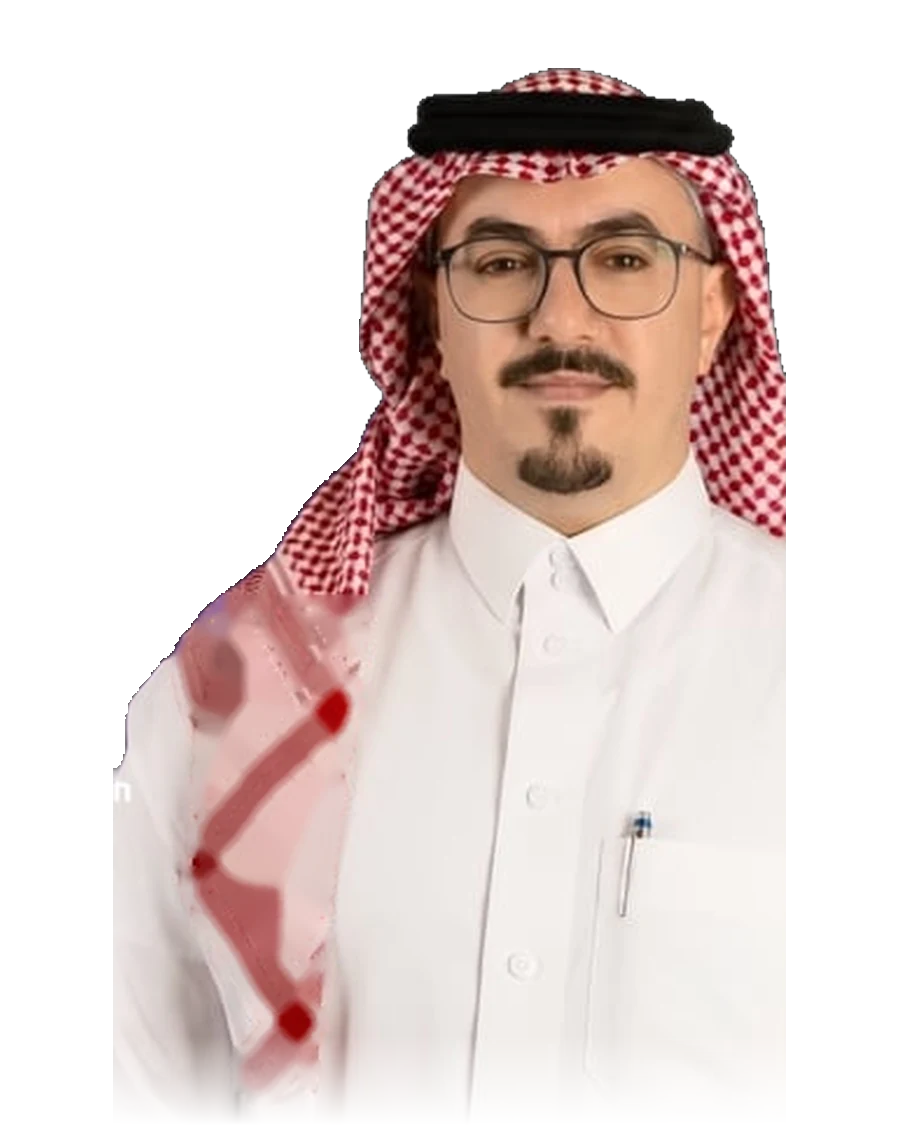
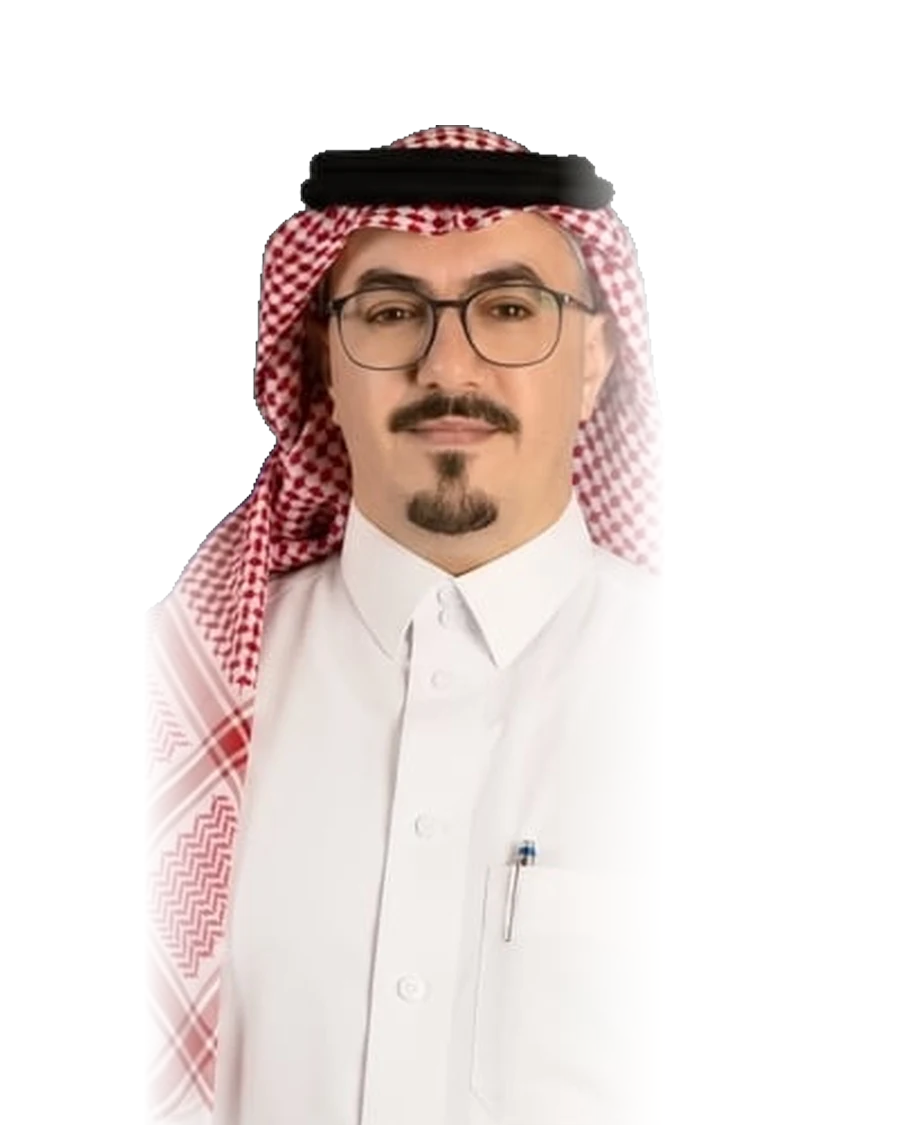
Website: clinic team page, uniform portraits, «حجز موعد», shorter texts (#93)
* Fetch the clinic's current team photos for review

Claude-Session: https://claude.ai/code/session_01UZ9yB1qiuDqaMH3Wauanzm

* Run fetch on push

* Fetch: commit the photos to the branch

* Team photos (source)

* Doctor portraits: one head-and-shoulders crop for all; team as on the clinic's team page

Claude-Session: https://claude.ai/code/session_01UZ9yB1qiuDqaMH3Wauanzm

* Website: team as on the clinic's team page (no founder spotlight), short department texts, «حجز موعد», cities only where they help

Claude-Session: https://claude.ai/code/session_01UZ9yB1qiuDqaMH3Wauanzm

* Portraits workflow: one clean OpenCV install

Claude-Session: https://claude.ai/code/session_01UZ9yB1qiuDqaMH3Wauanzm

* Portraits workflow: OpenCV 4 (has the face detector)

Claude-Session: https://claude.ai/code/session_01UZ9yB1qiuDqaMH3Wauanzm

* Doctor portraits (background removed)

* Portraits: shoulders always reach the bottom of the frame; soft edges where the card cut

Claude-Session: https://claude.ai/code/session_01UZ9yB1qiuDqaMH3Wauanzm

* Doctor portraits (background removed)

* Portraits: Dr. Hassan Abusalih's shemagh kept intact (cropped past the card text, not cleaned)

Claude-Session: https://claude.ai/code/session_01UZ9yB1qiuDqaMH3Wauanzm

* Doctor portraits (background removed)

* Regenerate migrations, setup.sql, reset.sql and docs

---------

diff --git a/src/db/site-derma.ts b/src/db/site-derma.ts
@@ -75,13 +75,6 @@ export const DERMA_DOCTORS: Doc[] = [
     "استشاري الأمراض الجلدية والطب التجميلي، ومؤسس ورئيس مجلس إدارة عيادات ديرما",
     "Consultant in Dermatology and Aesthetic Medicine; Founder and Chairman of Derma Clinics",
     "skin",
-    {
-      founder: true,
-      bioAr:
-        "أسّس د. عبدالله العيسى العيادة عام ١٩٩٦، وأسهم في إدخال البوتوكس والفيلر وطب الليزر إلى المملكة العربية السعودية.",
-      bioEn:
-        "Dr. Abdullah Aleisa founded the practice in 1996 and helped bring Botox, fillers and laser medicine to Saudi Arabia.",
-    },
   ),
   doc(
     `${P}abc77bf3-09f5-49fb-a9db-d7ded0850a5c-src_ar..jpg?v=0`,
@@ -172,14 +165,6 @@ export const DERMA_DOCTORS: Doc[] = [
     "skin",
   ),
   doc(
-    `${Q}ce1d1303-7a5d-44b9-8675-fb0c319cc022-src_ar..jpg?v=0`,
-    "د. باسل خوري",
-    "Dr. Basl Khwree",
-    DERM_AES.ar,
-    DERM_AES.en,
-    "skin",
-  ),
-  doc(
     `${Q}28dffe43-0457-447e-9ef0-ec5f88c5ebfe-src_ar..jpg?v=0`,
     "د. أنس غزال",
     "Dr. Anas Ghazal",
@@ -198,14 +183,6 @@ export const DERMA_DOCTORS: Doc[] = [
     JEDDAH,
   ),
   doc(
-    `${Q}e87b2355-c5d5-4e09-ba2b-d3fb0af45ea3-src_ar..jpg`,
-    "د. بسام جباعي",
-    "Dr. Bassam Jibaii",
-    "زراعة الشعر",
-    "Hair Transplant",
-    "hair",
-  ),
-  doc(
     "3a226e17-3a8c-59e7-5957-8066f3d292568e64403f-f37e-4a45-884b-964fe021a739-src_ar..jpg?v=0",
     "د. باسل غويش",
     "Dr. Bassel Gwaish",
@@ -222,65 +199,9 @@ export const DERMA_DOCTORS: Doc[] = [
     "skin",
   ),
   doc(
-    `${R}6cf11e29-6e08-49ac-bf49-e4c379c30fb7-src_ar..jpg?v=0`,
-    "د. نجد العيسى",
-    "Dr. Najd Aleisa",
-    "طب أسنان أسرة",
-    "Family Dentistry",
-    "dental",
-  ),
-  doc(
-    `${R}25b28198-b73a-4435-98b9-436861dbf4a2-src_ar..jpg?v=0`,
-    "د. فيصل الشريف",
-    "Dr. Faisal Alsharif",
-    "جراحة الوجه و الفكين وزراعة الأسنان",
-    "Oral Maxillofacial Surgery & Dental Implant",
-    "dental",
-  ),
-  doc(
-    `${R}5549794f-2549-4e4b-8c98-20993d9ce8cf-src_ar..jpg?v=0`,
-    "د. دلال الماضي",
-    "Dr. Dalal Almadha",
-    "تقويم الأسنان و الوجه والفكين",
-    "Orthodontics",
-    "dental",
-  ),
-  doc(
-    `${R}619f625e-7bc3-4e0e-bd2d-ada337f02050-src_ar..jpg?v=0`,
-    "د. صالح العساف",
-    "Dr. Saleh Alassaf",
-    "طب وجراحة اللثة وزراعة الأسنان",
-    "Periodontics",
-    "dental",
-  ),
-  doc(
-    `${R}c08fc530-b888-4247-a1be-9557232439fb-src_ar..jpg?v=0`,
-    "د. معالي العبدلي",
-    "Dr. Maali Alabdali",
-    "طب أسنان أسرة",
-    "Family Dentistry",
-    "dental",
-  ),
-  doc(
-    `${R}3c259c08-5f77-4ba9-bf0d-2bfe1c831d56-src_ar..jpg?v=0`,
-    "د. سجى العبيدي",
-    "Dr. Saja Alobaidi",
-    "طب وجراحة الفم والأسنان",
-    "Dentistry and Oral Surgery",
-    "dental",
-  ),
-  doc(
-    "3a226e19-97ef-6817-c4df-91d10c9be369369d8c45-f7d0-42ec-a7be-3e4978420bfe-src_ar..jpg?v=0",
-    "د. علي المجلي",
-    "Dr. Ali AlMujali",
-    "جراحة تجميل الوجه والفكين",
-    "Maxillofacial Surgery",
-    "plastic",
-  ),
-  doc(
-    `${R}bc4edbe2-f168-4f43-bd75-5369239e21c5-src_ar..jpg?v=0`,
-    "د. بسام العويرضي",
-    "Dr. Bassam AlAwirdhi",
+    "3a226e19-97ef-6817-c4df-91d10c9be369394998f9-9545-45b7-b7d5-15810ce6b05e-src_ar..jpg?v=0",
+    "د. حسن أبو صالح",
+    "Dr. Hassan Abusalih",
     "استشاري جراحة التجميل والترميم",
     "Consultant in Plastic and Reconstructive Surgery",
     "plastic",
@@ -294,12 +215,52 @@ export const DERMA_DOCTORS: Doc[] = [
     "plastic",
   ),
   doc(
-    "3a226e19-97ef-6817-c4df-91d10c9be369394998f9-9545-45b7-b7d5-15810ce6b05e-src_ar..jpg?v=0",
-    "د. حسن أبو صالح",
-    "Dr. Hassan Abusalih",
-    "استشاري جراحة التجميل والترميم",
-    "Consultant in Plastic and Reconstructive Surgery",
+    "3a226e19-97ef-6817-c4df-91d10c9be369369d8c45-f7d0-42ec-a7be-3e4978420bfe-src_ar..jpg?v=0",
+    "د. علي المجلي",
+    "Dr. Ali AlMujali",
+    "جراحة تجميل الوجه والفكين",
+    "Maxillofacial Surgery",
     "plastic",
+  ),
+  doc(
+    `${R}3c259c08-5f77-4ba9-bf0d-2bfe1c831d56-src_ar..jpg?v=0`,
+    "د. سجى العبيدي",
+    "Dr. Saja Alobaidi",
+    "طب وجراحة الفم والأسنان",
+    "Dentistry and Oral Surgery",
+    "dental",
+  ),
+  doc(
+    `${R}c08fc530-b888-4247-a1be-9557232439fb-src_ar..jpg?v=0`,
+    "د. معالي العبدلي",
+    "Dr. Maali Alabdali",
+    "طب أسنان أسرة",
+    "Family Dentistry",
+    "dental",
+  ),
+  doc(
+    `${R}5549794f-2549-4e4b-8c98-20993d9ce8cf-src_ar..jpg?v=0`,
+    "د. دلال الماضي",
+    "Dr. Dalal Almadha",
+    "تقويم الأسنان و الوجه والفكين",
+    "Orthodontics",
+    "dental",
+  ),
+  doc(
+    `${R}25b28198-b73a-4435-98b9-436861dbf4a2-src_ar..jpg?v=0`,
+    "د. فيصل الشريف",
+    "Dr. Faisal Alsharif",
+    "جراحة الوجه و الفكين وزراعة الأسنان",
+    "Oral Maxillofacial Surgery & Dental Implant",
+    "dental",
+  ),
+  doc(
+    `${R}6cf11e29-6e08-49ac-bf49-e4c379c30fb7-src_ar..jpg?v=0`,
+    "د. نجد العيسى",
+    "Dr. Najd Aleisa",
+    "طب أسنان أسرة",
+    "Family Dentistry",
+    "dental",
   ),
 ];
 
@@ -542,17 +503,17 @@ export const DERMA_SILOS = [
 export const DERMA_SITE = {
   eyebrowAr: "العيادة · منذ ١٩٩٦",
   eyebrowEn: "The Practice · Since 1996",
-  headlineAr: "رعاية جلدية وتجميلية وطب أسنان على أيدي أطباء متخصصين في الرياض وجدة",
-  headlineEn: "Specialist dermatology, aesthetic and dental care in Riyadh and Jeddah",
+  headlineAr: "رعاية جلدية وتجميلية وطب أسنان على أيدي أطباء متخصصين",
+  headlineEn: "Specialist dermatology, aesthetic and dental care",
   taglineAr: "الجلدية وجراحة التجميل واستعادة الشعر وطب الأسنان، تحت سقف واحد منذ عام ١٩٩٦.",
   taglineEn:
     "Dermatology, plastic surgery, hair restoration and dentistry, under one roof since 1996.",
   aboutTitleAr: "عن عيادات ديرما",
   aboutTitleEn: "About Derma Clinics",
   aboutAr:
-    "تأسست عيادات ديرما في الرياض عام ١٩٩٦ على يد د. عبدالله العيسى، استشاري الأمراض الجلدية والطب التجميلي. وتضم اليوم أربعة أقسام في الرياض وجدة: الأمراض الجلدية والطب التجميلي، وزراعة الشعر، وجراحة التجميل، وطب الأسنان. يبدأ كل علاج بكشف لدى طبيب القسم، يشرح فيه التشخيص والخيارات المتاحة وعدد الجلسات والتكلفة قبل أن يتخذ المريض قراره.",
+    "تأسست عيادات ديرما عام ١٩٩٦، وتضم اليوم أربعة أقسام: الأمراض الجلدية والطب التجميلي، وزراعة الشعر، وجراحة التجميل، وطب الأسنان. يبدأ كل علاج بكشف لدى طبيب القسم، يشرح فيه التشخيص والخيارات والتكلفة قبل أن يقرّر المريض.",
   aboutEn:
-    "Derma Clinics was founded in Riyadh in 1996 by Dr. Abdullah Aleisa, consultant in dermatology and aesthetic medicine. Today it has four departments in Riyadh and Jeddah: dermatology and aesthetic medicine, hair restoration, plastic surgery, and dentistry. Every treatment begins with an examination by a doctor in that department, who explains the diagnosis, the options, the number of sessions and the cost before the patient decides.",
+    "Derma Clinics was founded in 1996 and today has four departments: dermatology and aesthetic medicine, hair restoration, plastic surgery, and dentistry. Every treatment begins with an examination by a doctor in that department, who explains the diagnosis, the options and the cost before the patient decides.",
   quoteAr: "نشرح لكل مريض التشخيص والخيارات قبل أي علاج، ولا نوصي إلا بما يحتاجه.",
   quoteEn:
     "Every patient hears the diagnosis and the options before any treatment, and is advised only what they need.",
@@ -566,9 +527,9 @@ export const DERMA_SITE = {
   findAr: "الرياض وجدة. الزيارة بموعد مسبق.",
   findEn: "Riyadh and Jeddah. Visits by appointment.",
   footerAr:
-    "عيادات ديرما. الجلدية وجراحة التجميل واستعادة الشعر وطب الأسنان. الرياض وجدة، منذ ١٩٩٦.",
+    "عيادات ديرما. الأمراض الجلدية والطب التجميلي وزراعة الشعر وجراحة التجميل وطب الأسنان، منذ ١٩٩٦.",
   footerEn:
-    "Derma Clinics. Dermatology, plastic surgery, hair restoration and dentistry. Riyadh and Jeddah, since 1996.",
+    "Derma Clinics. Dermatology, aesthetic medicine, hair restoration, plastic surgery and dentistry, since 1996.",
   since: 1996,
   phone: "9200 33055",
   whatsapp: "+966550883080",
@@ -580,30 +541,25 @@ export const DERMA_SITE = {
       key: "skin",
       nameAr: "طب الجلدية والطب التجميلي وزراعة الشعر",
       nameEn: "Dermatology, Aesthetic Medicine & Hair Transplantation",
-      textAr:
-        "تشخيص وعلاج أمراض الجلد والشعر والأظافر، مثل حب الشباب والإكزيما والصدفية والبهاق والتصبغات، إلى جانب الطب التجميلي وعلاجات الليزر وزراعة الشعر.",
+      textAr: "تشخيص وعلاج أمراض الجلد والشعر والأظافر، والطب التجميلي والليزر.",
       textEn:
-        "Diagnosis and treatment of skin, hair and nail conditions such as acne, eczema, psoriasis, vitiligo and pigmentation, alongside aesthetic medicine, laser treatment and hair transplantation.",
+        "Diagnosis and treatment of skin, hair and nail conditions, aesthetic medicine and laser.",
       specialties: ["skin", "hair"],
     },
     {
       key: "dental",
       nameAr: "طب الأسنان",
       nameEn: "Dental Care",
-      textAr:
-        "الفحص والأشعة، والحشوات وعلاج العصب واللثة، والتركيبات وزراعة الأسنان والتقويم، وطب أسنان الأطفال. تُكتب خطة العلاج وتكلفتها قبل البدء.",
-      textEn:
-        "Examinations and X-rays, fillings, root canal and gum treatment, crowns and bridges, implants, orthodontics and children's dentistry. The treatment plan and its cost are written down before treatment starts.",
+      textAr: "طب الأسنان العام والتجميلي، والزراعة والتقويم، وطب أسنان الأطفال.",
+      textEn: "General and cosmetic dentistry, implants, orthodontics and children's dentistry.",
       specialties: ["dental"],
     },
     {
       key: "plastic",
       nameAr: "جراحة التجميل",
       nameEn: "Plastic Surgery",
-      textAr:
-        "جراحات الوجه والجسم، مثل تجميل الأنف والجفون وشد الوجه وشفط الدهون وجراحات الثدي وشد البطن، بعد استشارة وفحص لدى الجرّاح.",
-      textEn:
-        "Facial and body surgery, including rhinoplasty, eyelid surgery, facelift, liposuction, breast surgery and tummy tuck, after a consultation and examination with the surgeon.",
+      textAr: "جراحات تجميل الوجه والجسم.",
+      textEn: "Facial and body plastic surgery.",
       specialties: ["plastic"],
     },
   ],
@@ -612,8 +568,6 @@ export const DERMA_SITE = {
       key: "skin",
       nameAr: "الجلدية والطب التجميلي",
       nameEn: "Dermatology & Aesthetic Medicine",
-      leadAr: "لأمراض الجلد والتصبغات وعلامات التقدم في العمر.",
-      leadEn: "For skin conditions, pigmentation and signs of ageing.",
       textAr: "طب الجلدية العلاجي والتجميلي وطب الليزر.",
       textEn: "Medical and aesthetic dermatology and laser medicine.",
       bookable: true,
@@ -622,8 +576,6 @@ export const DERMA_SITE = {
       key: "dental",
       nameAr: "طب الأسنان التجميلي والعام",
       nameEn: "Cosmetic & General Dentistry",
-      leadAr: "لصحة الفم والأسنان، للكبار والأطفال.",
-      leadEn: "Oral and dental care for adults and children.",
       textAr: "طب الأسنان العام والترميمي والتجميلي.",
       textEn: "General, restorative and cosmetic dentistry.",
     },
@@ -631,21 +583,15 @@ export const DERMA_SITE = {
       key: "hair",
       nameAr: "زراعة واستعادة الشعر",
       nameEn: "Hair Restoration & Transplantation",
-      leadAr: "لتساقط الشعر وفقدانه في فروة الرأس والوجه.",
-      leadEn: "For thinning and hair loss on the scalp and face.",
-      textAr:
-        "يُحدَّد سبب التساقط أولًا، ثم يكون العلاج طبيًا (البلازما، الميزوثيرابي، الليزر) أو بالزراعة بتقنية الاقتطاف FUE لفروة الرأس واللحية والحواجب.",
-      textEn:
-        "The cause of hair loss is found first. Treatment is then medical (PRP, mesotherapy, laser) or by FUE transplantation for the scalp, beard and eyebrows.",
+      textAr: "العلاج الطبي لتساقط الشعر، وزراعة الشعر.",
+      textEn: "Medical treatment of hair loss, and hair transplantation.",
     },
     {
       key: "plastic",
       nameAr: "جراحة التجميل",
       nameEn: "Plastic Surgery",
-      leadAr: "لجراحات الوجه والجسم.",
-      leadEn: "Facial and body surgery.",
-      textAr: "جراحات الوجه والجسم على يد جرّاحي تجميل استشاريين.",
-      textEn: "Facial and body surgery by consultant plastic surgeons.",
+      textAr: "جراحات تجميل الوجه والجسم.",
+      textEn: "Facial and body plastic surgery.",
     },
   ],
   silos: DERMA_SILOS,

diff --git a/tests/clinic-site.test.ts b/tests/clinic-site.test.ts
@@ -22,9 +22,10 @@ describe("clinic website", () => {
     expect(ids).toContain(service("consultation"));
     expect(site.videoService?.id).toBe(service("video_consultation"));
     expect(site.doctors.length).toBeGreaterThan(0);
-    // The clinic's published medical team (from its own website), founder first.
-    expect(site.site.doctors?.length).toBeGreaterThan(20);
-    expect(site.site.doctors?.[0].founder).toBe(true);
+    // The clinic's published medical team (its own team page, same order), no one set apart.
+    expect(site.site.doctors?.length).toBe(24);
+    expect(site.site.doctors?.[0].nameEn).toBe("Dr. Abdullah Aleisa");
+    expect(site.site.doctors?.some((d) => d.founder)).toBe(false);
     // Doctor profiles for the website (specialty, credentials, languages).
     const sara = site.doctors.find((d) => d.nameEn === "Dr. Sarah Al-Otaibi");
     expect(sara?.profile?.credentials?.length).toBeGreaterThan(0);

diff --git a/scripts/cutouts/cutouts.py b/scripts/cutouts/cutouts.py
@@ -47,9 +47,12 @@ for d in json.loads(Path("scripts/cutouts/doctors.json").read_text()):
     card = Image.open(io.BytesIO(urllib.request.urlopen(req, timeout=60).read())).convert("RGB")
     w, h = card.size
     # The person stands on the right of the card; the logo and name text are on the left.
-    x0 = int(w * (0.5 if d["founder"] else 0.38))
+    x0 = int(w * d.get("x0", 0.5 if d["founder"] else 0.38))
     part = card.crop((x0, 0, w, h))
-    part = clean_text(part)
+    # A patterned shemagh looks like text to the cleaner, so such cards are cropped past the
+    # text instead ("x0") and not cleaned.
+    if d.get("clean", True):
+        part = clean_text(part)
     cut = remove(part, session=session)
     a = np.array(cut)
     alpha = a[:, :, 3] > 40
@@ -76,25 +79,41 @@ for d in json.loads(Path("scripts/cutouts/doctors.json").read_text()):
     a[:, :, 3] = np.where(keep, solid, 0)
     person = Image.fromarray(a)
     ys, xs = np.where(a[:, :, 3] > 0)
+    # Where the card itself cut the person off (its left/right edge), soften later.
+    cut_l, cut_r = xs.min() <= 2, xs.max() >= a.shape[1] - 3
     person = person.crop((xs.min(), ys.min(), xs.max() + 1, ys.max() + 1))
+    # One studio-style crop for everyone, as on hospital websites: the face is found and every
+    # portrait gets the same head size and eye line (head and shoulders, centred).
+    rgb = np.array(person.convert("RGB"))
+    gray = cv2.cvtColor(rgb, cv2.COLOR_RGB2GRAY)
+    det = cv2.CascadeClassifier(cv2.data.haarcascades + "haarcascade_frontalface_default.xml")
+    faces = det.detectMultiScale(gray, 1.1, 5, minSize=(gray.shape[1] // 8, gray.shape[1] // 8))
     pw, ph = person.size
-    # Head near the top, shoulders to the bottom edge, centred.
-    scale = min(W * 0.96 / pw, H * 0.94 / ph)
+    if len(faces):
+        fx, fy, fw, fh = max(faces, key=lambda f: f[2] * f[3])
+    else:
+        print("no face found, estimating:", d["slug"], file=sys.stderr)
+        fw = fh = int(pw * 0.32)
+        fx, fy = (pw - fw) // 2, int(ph * 0.08)
+    FACE_W, FACE_CX, FACE_TOP = W * 0.36, W * 0.5, H * 0.16
+    # Same face size for all, but never so small that the shoulders stop above the frame's
+    # bottom edge: then the photo is enlarged until they reach it.
+    scale = max(FACE_W / fw, (H - FACE_TOP) / max(ph - fy, 1) * 1.02)
     person = person.resize((max(1, int(pw * scale)), max(1, int(ph * scale))), Image.LANCZOS)
+    ox = int(FACE_CX - (fx + fw / 2) * scale)
+    oy = int(FACE_TOP - fy * scale)
     canvas = Image.new("RGBA", (W, H), (0, 0, 0, 0))
-    canvas.paste(person, ((W - person.width) // 2, H - person.height), person)
-    # Soften the frame edges: semi-transparent leftovers of the card on the left go, and the
-    # left edge (where the card's text met the coat) and the bottom fade out gently.
+    canvas.paste(person, (ox, oy), person)
+    # A side the card cut off fades out softly instead of ending in a hard line.
     c = np.array(canvas).astype(np.float32)
     al = c[:, :, 3]
-    left = np.zeros_like(al, dtype=bool)
-    left[:, : int(W * 0.4)] = True
-    al[left & (al < 200)] = 0
     xs_ = np.arange(W, dtype=np.float32)
-    ys_ = np.arange(H, dtype=np.float32)
-    fade_x = np.clip((xs_ - W * 0.02) / (W * 0.16), 0, 1)
-    fade_y = np.clip((H - ys_) / (H * 0.08), 0, 1)
-    al *= fade_x[None, :] * fade_y[:, None]
+    band = W * 0.12
+    if cut_l and ox > 0:
+        al *= np.clip((xs_ - ox) / band, 0, 1)[None, :]
+    right = ox + person.width
+    if cut_r and right < W:
+        al *= np.clip((right - xs_) / band, 0, 1)[None, :]
     c[:, :, 3] = al
     canvas = Image.fromarray(c.clip(0, 255).astype(np.uint8))
     canvas.save(OUT / f"{d['slug']}.webp", "WEBP", quality=88, method=6)
